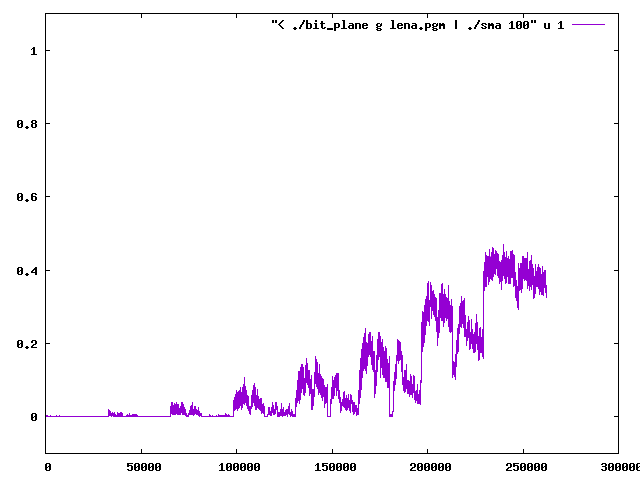
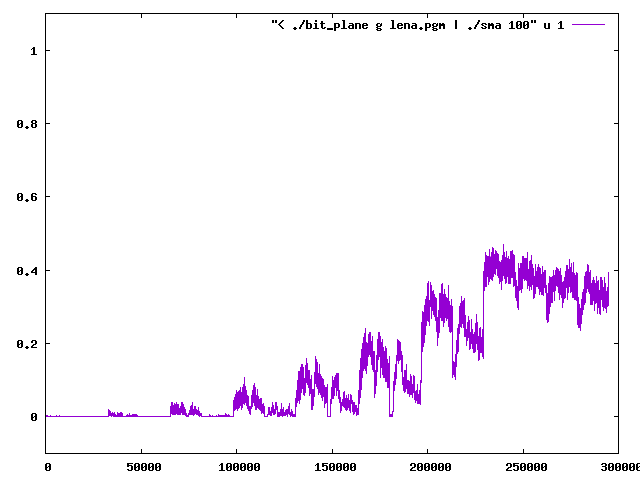
also append the sign bits

Changed region(s): [[0.8438, 0.5312, 0.9688, 0.6875]]

diff --git a/bit_plane.c b/bit_plane.c
@@ -76,24 +76,31 @@ int main(int argc, char **argv) {
 	FILE *pgm = open_pgm(argv[2], &width, &height);
 	if (!pgm)
 		return 1;
-	int bytes = width * height;
-	unsigned char *buf = calloc(bytes, 1);
-	for (unsigned char *p = buf; p < buf + bytes; ++p)
+	int pixels = width * height;
+	unsigned char *buf = calloc(pixels, 1);
+	for (unsigned char *p = buf; p < buf + pixels; ++p)
 		*p = fgetc(pgm);
-	fclose(pgm);
+	int signs = pixels / 8;
+	int bytes = pixels + signs;
 	if (gen) {
 		putleb128(bytes);
 		for (int plane = 7; plane >= 0; --plane)
-			for (unsigned char *p = buf; p < buf + bytes; ++p)
+			for (unsigned char *p = buf; p < buf + pixels; ++p)
 				putbit((*p >> plane) & 1);
+		while (signs--)
+			putbyte(fgetc(pgm));
 	} else {
 		if (getleb128() != bytes)
 			return 1;
 		for (int plane = 7; plane >= 0; --plane)
-			for (unsigned char *p = buf; p < buf + bytes; ++p)
+			for (unsigned char *p = buf; p < buf + pixels; ++p)
 				if (getbit() != ((*p >> plane) & 1))
 					return 1;
+		while (signs--)
+			if (getbyte() != fgetc(pgm))
+				return 1;
 	}
+	fclose(pgm);
 	free(buf);
 	fprintf(stderr, "%s: %s %d bytes\n", argv[0], gen ? "generated" : "verified", gen ? wrote_bytes : read_bytes);
 	return 0;

diff --git a/README.md b/README.md
@@ -13,13 +13,16 @@ The range of values after the transformation was -181 to 213. Inverting the nega
 As we go from the most significant to the least significant bit plane, our chances of getting long runs diminishes:
 
 ![./bit_plane g lena.pgm | ./sma 100](lena.png)
+
+The last 1/8 of the plot shows the appended sign bits.
+
 | Coder         | Change    |
 | ------------- | --------- |
 | copy          | 0%        |
-| rle_byte      | -54.89%   |
-| rle_zeros     | -63.27%   |
-| rle_switch    | -61.84%   |
-| freq_varint   | -47.74%   |
+| rle_byte      | -48.36%   |
+| rle_zeros     | -55.83%   |
+| rle_switch    | -54.14%   |
+| freq_varint   | -37.92%   |
 
 ## Testing a fixed probability of 0% ones (100% zeros):
 | Coder         | Change    |
